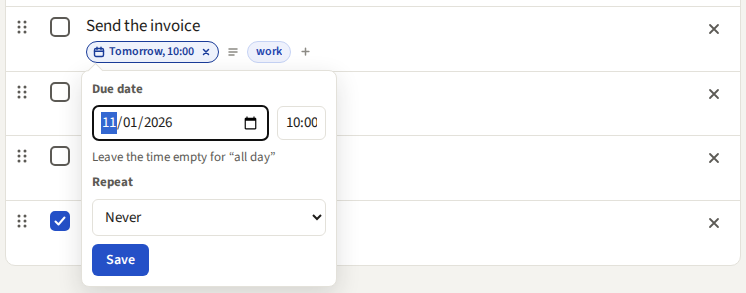
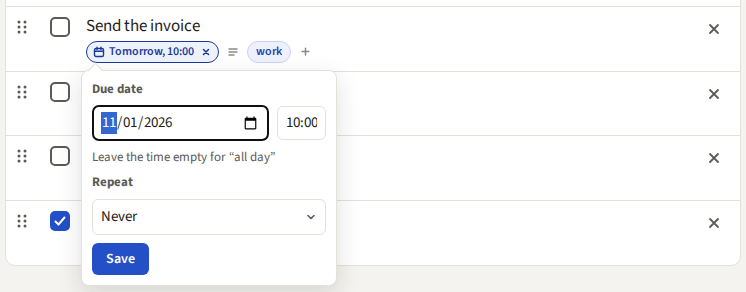
fix: the page draws the Repeat list, so it looks the same in Firefox
The Repeat list of the due date pop-up was a <select>. Firefox draws its
open list with the system look (system font, square corners, system
highlight), and CSS cannot change it. The page now draws the list as the
canvas frame "The Repeat list open": a button with the chosen rule, a
white list with a shadow, and the chosen rule in light blue. The form
still sends due_repeat in a hidden field.

Keys: ↓ ↑ open the list and move, Enter or Space chooses, Esc closes only
the list, Tab or a click outside closes it. The focus ring shows only
when the keys are in use.

diff --git a/internal/web/static/app.js b/internal/web/static/app.js
@@ -808,7 +808,7 @@ document.addEventListener("mousedown", (e) => {
     return;
   }
   if (picker.contains(e.target)) {
-    if (!e.target.closest(isFormPicker() ? "input, select, textarea" : ".picker-search")) {
+    if (!e.target.closest(isFormPicker() ? "input, textarea" : ".picker-search")) {
       e.preventDefault();
     }
   } else if (button === pickerButton) {
@@ -865,7 +865,8 @@ document.addEventListener("keydown", (e) => {
   }
   if (e.key === "Escape") {
     e.preventDefault();
-    closePicker(true);
+    // An open Repeat list closes first; the next Esc closes the pop-up.
+    if (!closeRepeatMenu(true)) closePicker(true);
   } else if (e.key === "Enter" && (e.ctrlKey || e.metaKey) && e.target.matches("textarea") && !e.isComposing) {
     e.preventDefault();
     picker.requestSubmit();
@@ -1855,3 +1856,108 @@ document.addEventListener("htmx:afterRequest", (e) => {
   }
 });
 document.addEventListener("htmx:afterSettle", drawTypedLine);
+
+// 21. The Repeat list of the due date pop-up (canvas page "20 · Repeat",
+// frame "The Repeat list open"). The page draws it, not a <select>: Firefox
+// draws the open list of a <select> with the system look, and CSS cannot
+// change it. A click on the button opens the list; ↑ ↓ Home End move, Enter
+// or Space or a click chooses; Esc, Tab or a click outside closes it. The
+// choice goes into the hidden field due_repeat, which the form sends.
+
+// repeatStep is the line that key moves to, from line at in a list of n
+// lines, or -1 if the key does not move.
+function repeatStep(at, key, n) {
+  switch (key) {
+    case "ArrowDown": return Math.min(at + 1, n - 1);
+    case "ArrowUp": return Math.max(at - 1, 0);
+    case "Home": return 0;
+    case "End": return n - 1;
+  }
+  return -1;
+}
+
+// openRepeatMenu shows the list of the button, with the focus on the chosen
+// line. The focus ring shows only when the keys are in use (byKey).
+function openRepeatMenu(button, byKey) {
+  const menu = button.nextElementSibling;
+  menu.classList.toggle("by-key", byKey);
+  menu.hidden = false;
+  button.setAttribute("aria-expanded", "true");
+  (menu.querySelector('[aria-selected="true"]') || menu.firstElementChild).focus();
+}
+
+// closeRepeatMenu hides the open Repeat list, if there is one, and says if
+// it did. With refocus, the focus goes back to its button.
+function closeRepeatMenu(refocus) {
+  const menu = document.querySelector(".repeat-menu:not([hidden])");
+  if (!menu) {
+    return false;
+  }
+  const button = menu.previousElementSibling;
+  menu.hidden = true;
+  button.setAttribute("aria-expanded", "false");
+  if (refocus) {
+    button.focus();
+  }
+  return true;
+}
+
+// chooseRepeat puts the rule of a line into the form and the button.
+function chooseRepeat(line) {
+  const menu = line.parentElement;
+  menu.querySelectorAll('[role="option"]').forEach((o) => o.setAttribute("aria-selected", String(o === line)));
+  menu.closest("form").elements.due_repeat.value = line.dataset.value;
+  menu.previousElementSibling.querySelector(".due-repeat-text").textContent = line.textContent;
+  closeRepeatMenu(true);
+}
+
+document.addEventListener("click", (e) => {
+  const button = e.target.closest && e.target.closest(".due-repeat");
+  if (button) {
+    if (button.getAttribute("aria-expanded") === "true") closeRepeatMenu(true);
+    else openRepeatMenu(button, e.detail === 0); // detail 0: Enter or Space
+    return;
+  }
+  const line = e.target.closest && e.target.closest('.repeat-menu [role="option"]');
+  if (line) {
+    chooseRepeat(line);
+  }
+});
+
+// A press outside the open list (and its button) closes it.
+document.addEventListener("mousedown", (e) => {
+  if (!e.target.closest || !e.target.closest(".repeat-field")) {
+    closeRepeatMenu(false);
+  }
+});
+
+// The focus that goes out of the list (Tab, a click on a field) closes it.
+document.addEventListener("focusin", (e) => {
+  if (!e.target.closest || !e.target.closest(".repeat-field")) {
+    closeRepeatMenu(false);
+  }
+});
+
+document.addEventListener("keydown", (e) => {
+  const line = e.target.closest && e.target.closest('.repeat-menu [role="option"]');
+  if (!line) {
+    if (e.target.matches && e.target.matches(".due-repeat") && (e.key === "ArrowDown" || e.key === "ArrowUp")) {
+      e.preventDefault();
+      openRepeatMenu(e.target, true);
+    }
+    return;
+  }
+  line.parentElement.classList.add("by-key");
+  const lines = Array.from(line.parentElement.children);
+  const at = repeatStep(lines.indexOf(line), e.key, lines.length);
+  if (at >= 0) {
+    e.preventDefault();
+    lines[at].focus();
+  } else if (e.key === "Enter" || e.key === " ") {
+    e.preventDefault();
+    chooseRepeat(line);
+  } else if (e.key === "Tab") {
+    // From the button, Tab goes on to the next field as usual.
+    closeRepeatMenu(true);
+  }
+});

diff --git a/internal/web/templates/item.html b/internal/web/templates/item.html
@@ -20,6 +20,8 @@
 
 {{define "repeat-icon"}}<svg width="11" height="11" viewBox="0 0 12 12" fill="none" aria-hidden="true"><path d="M10 6a4 4 0 1 1-1.2-2.85" stroke="currentColor" stroke-width="1.5" stroke-linecap="round"/><path d="M9.6 1.2v2.4H7.2" stroke="currentColor" stroke-width="1.5" stroke-linecap="round" stroke-linejoin="round"/></svg>{{end}}
 
+{{define "chevron-icon"}}<svg class="chevron" width="12" height="12" viewBox="0 0 12 12" fill="none" aria-hidden="true"><path d="M3 4.5L6 7.5l3-3" stroke="currentColor" stroke-width="1.6" stroke-linecap="round" stroke-linejoin="round"/></svg>{{end}}
+
 {{define "notes-icon"}}<svg width="12" height="12" viewBox="0 0 12 12" fill="none" aria-hidden="true"><path d="M2 3h8M2 6h8M2 9h5" stroke="currentColor" stroke-width="1.5" stroke-linecap="round"/></svg>{{end}}
 
 {{define "plus-icon-18"}}<svg width="18" height="18" viewBox="0 0 20 20" fill="none" aria-hidden="true"><path d="M10 4v12M4 10h12" stroke="currentColor" stroke-width="1.9" stroke-linecap="round"/></svg>{{end}}
@@ -88,11 +90,15 @@
 <input type="hidden" name="due_tz" value="{{zone}}">
 {{if .Error}}<p class="hint error" id="due-error-{{.Item.ID}}" role="alert">{{.Error}}</p>{{else}}<p class="hint">Leave the time empty for “all day”</p>{{end}}
 {{/* Repeating items (canvas page "20 · Repeat", option R1). */}}
-<label class="due-picker-title" for="due-repeat-{{.Item.ID}}">Repeat</label>
-<select name="due_repeat" id="due-repeat-{{.Item.ID}}" class="due-repeat">
-<option value=""{{if not .Repeat}} selected{{end}}>Never</option>
-{{range repeatRules}}<option value="{{.}}"{{if eq . $.Repeat}} selected{{end}}>{{repeatText .}}</option>
-{{end}}</select>
+{{/* The page draws the list (not a <select>), so that it looks the same in
+     each browser (app.js section 21). */}}
+<label class="due-picker-title" id="due-repeat-title-{{.Item.ID}}" for="due-repeat-{{.Item.ID}}">Repeat</label>
+<input type="hidden" name="due_repeat" value="{{.Repeat}}">
+<span class="repeat-field"><button type="button" id="due-repeat-{{.Item.ID}}" class="due-repeat" aria-haspopup="listbox" aria-expanded="false" aria-controls="due-repeat-menu-{{.Item.ID}}" aria-labelledby="due-repeat-title-{{.Item.ID}} due-repeat-{{.Item.ID}}"><span class="due-repeat-text">{{if .Repeat}}{{repeatText .Repeat}}{{else}}Never{{end}}</span>{{template "chevron-icon"}}</button>
+<ul class="repeat-menu" id="due-repeat-menu-{{.Item.ID}}" role="listbox" aria-labelledby="due-repeat-title-{{.Item.ID}}" hidden>
+<li role="option" data-value="" aria-selected="{{if .Repeat}}false{{else}}true{{end}}" tabindex="-1">Never</li>
+{{range repeatRules}}<li role="option" data-value="{{.}}" aria-selected="{{if eq . $.Repeat}}true{{else}}false{{end}}" tabindex="-1">{{repeatText .}}</li>
+{{end}}</ul></span>
 <div class="due-actions"><button type="submit" class="due-save">Save</button></div>
 </form>{{end}}
 

diff --git a/internal/web/static/app.css b/internal/web/static/app.css
@@ -769,10 +769,29 @@ body.searching #items :is(.grip, .grip-space) { visibility: hidden; }
 
 /* Repeating items (canvas page "20 · Repeat", option R1): the Repeat list
    of the due date pop-up, the ↻ on the date chip, and the line after a check. */
+/* The page draws the Repeat list (app.js section 21), as the canvas frame
+   "The Repeat list open": a white list with a shadow under the button. */
+.repeat-field { position: relative; display: block; }
 .due-repeat {
+  box-sizing: border-box; display: flex; align-items: center; justify-content: space-between; gap: 8px;
+  width: 100%; min-height: 36px; text-align: left; cursor: pointer;
   font: inherit; font-size: 15px; color: var(--ink);
   padding: 6px 8px; border: 1px solid var(--line); border-radius: 6px; background: var(--card);
 }
+.due-repeat .chevron { flex: none; color: var(--muted); }
+.due-repeat[aria-expanded="true"] .chevron { transform: rotate(180deg); }
+.due-repeat:focus-visible { outline: 2px solid var(--accent); outline-offset: -1px; border-color: var(--accent); }
+.repeat-menu {
+  position: absolute; z-index: 1; top: calc(100% + 4px); left: 0; right: 0;
+  margin: 0; padding: 4px 0; list-style: none; font-size: 14px;
+  background: var(--card); border: 1px solid var(--line); border-radius: 6px;
+  box-shadow: 0 4px 12px rgba(31, 30, 27, 0.12);
+}
+.repeat-menu[hidden] { display: none; }
+.repeat-menu [role="option"] { padding: 5px 10px; cursor: pointer; }
+.repeat-menu [role="option"]:hover, .repeat-menu [role="option"]:focus { background: var(--ground); outline: none; }
+.repeat-menu [role="option"][aria-selected="true"] { background: #EEF2FC; color: #1A3C99; font-weight: 600; }
+.repeat-menu.by-key [role="option"]:focus { box-shadow: inset 0 0 0 2px var(--accent); }
 .repeat-icon { display: inline-flex; margin-left: 3px; }
 .repeat-msg {
   display: flex; align-items: center; gap: 10px; margin-top: 4px; font-size: 13px; color: var(--muted);
@@ -782,5 +801,7 @@ body.searching #items :is(.grip, .grip-space) { visibility: hidden; }
 .repeat-msg .undo-btn { font-size: 13px; min-height: 28px; padding: 0 10px; }
 @media (hover: none) {
   .due-repeat { font-size: 16px; min-height: 44px; }
+  .repeat-menu { font-size: 16px; }
+  .repeat-menu [role="option"] { display: flex; align-items: center; min-height: 44px; box-sizing: border-box; }
   .repeat-msg .undo-btn { min-height: 40px; font-size: 14px; }
 }

diff --git a/internal/web/repeat_test.go b/internal/web/repeat_test.go
@@ -5,6 +5,9 @@ import (
 	"encoding/json"
 	"net/http"
 	"net/url"
+	"os"
+	"os/exec"
+	"path/filepath"
 	"strings"
 	"testing"
 	"time"
@@ -35,14 +38,58 @@ func TestDuePickerHasRepeat(t *testing.T) {
 	if it.ID != 1 {
 		t.Fatalf("id = %d, want 1", it.ID)
 	}
-	assertContains(t, body, `<select name="due_repeat" id="due-repeat-1" class="due-repeat">`,
-		`<option value="">Never</option>`, `<option value="day">Every day</option>`,
-		`<option value="week" selected>Every week</option>`, `<option value="month">Every month</option>`,
-		`<option value="year">Every year</option>`, `<label class="due-picker-title" for="due-repeat-1">Repeat</label>`)
-	// A press on the list must go through, or the list does not open
-	// (app.js, the mousedown handler of the pop-ups).
-	js := do(t, env.H, "GET", "/static/app.js", nil, anon).Body.String()
-	assertContains(t, js, `e.target.closest(isFormPicker() ? "input, select, textarea" : ".picker-search")`)
+	// The page draws the list itself, so it looks the same in each browser
+	// (a <select> opens a list that the browser and the system draw).
+	assertContains(t, body,
+		`<label class="due-picker-title" id="due-repeat-title-1" for="due-repeat-1">Repeat</label>`,
+		`<input type="hidden" name="due_repeat" value="week">`,
+		`<span class="repeat-field"><button type="button" id="due-repeat-1" class="due-repeat" aria-haspopup="listbox" aria-expanded="false" aria-controls="due-repeat-menu-1" aria-labelledby="due-repeat-title-1 due-repeat-1"><span class="due-repeat-text">Every week</span>`,
+		`<ul class="repeat-menu" id="due-repeat-menu-1" role="listbox" aria-labelledby="due-repeat-title-1" hidden>`,
+		`<li role="option" data-value="" aria-selected="false" tabindex="-1">Never</li>`,
+		`<li role="option" data-value="day" aria-selected="false" tabindex="-1">Every day</li>`,
+		`<li role="option" data-value="week" aria-selected="true" tabindex="-1">Every week</li>`,
+		`<li role="option" data-value="month" aria-selected="false" tabindex="-1">Every month</li>`,
+		`<li role="option" data-value="year" aria-selected="false" tabindex="-1">Every year</li>`)
+	assertNotContains(t, body, "<select", "<option")
+	// Without a rule, "Never" is chosen.
+	mustAdd(t, env.Svc, "Pay the rent")
+	body = do(t, env.H, "GET", "/items/2/due", nil, warsawHTMX()).Body.String()
+	assertContains(t, body, `<input type="hidden" name="due_repeat" value="">`, `<span class="due-repeat-text">Never</span>`,
+		`<li role="option" data-value="" aria-selected="true" tabindex="-1">Never</li>`)
+}
+
+// repeatHarness runs repeatStep of app.js: the line that a key in the Repeat
+// list moves to, from line at in a list of n lines.
+const repeatHarness = `
+const src = require("fs").readFileSync(process.argv[2], "utf8");
+const document = {
+  addEventListener() {}, getElementById: () => null, querySelector: () => null, querySelectorAll: () => [],
+  activeElement: null, body: { classList: { contains: () => false } },
+};
+const fns = new Function("document", "window", "navigator", "fetch", "setInterval", "setTimeout", "clearTimeout", "htmx",
+  src + "\nreturn { repeatStep };")(document, {}, {}, () => new Promise(() => {}), () => 0, () => 0, () => {}, {});
+for (const [at, key] of [[2, "ArrowDown"], [4, "ArrowDown"], [2, "ArrowUp"], [0, "ArrowUp"], [2, "Home"], [2, "End"], [2, "a"]]) {
+  console.log(at + " " + key + " " + fns.repeatStep(at, key, 5));
+}
+`
+
+func TestRepeatListKeys(t *testing.T) {
+	node, err := exec.LookPath("node")
+	if err != nil {
+		t.Skip("node is not installed")
+	}
+	harness := filepath.Join(t.TempDir(), "harness.js")
+	if err := os.WriteFile(harness, []byte(repeatHarness), 0o600); err != nil {
+		t.Fatal(err)
+	}
+	out, err := exec.Command(node, harness, "static/app.js").CombinedOutput()
+	if err != nil {
+		t.Fatalf("node: %v\n%s", err, out)
+	}
+	want := "2 ArrowDown 3\n4 ArrowDown 4\n2 ArrowUp 1\n0 ArrowUp 0\n2 Home 0\n2 End 4\n2 a -1"
+	if got := strings.TrimSpace(string(out)); got != want {
+		t.Fatalf("got:\n%s\nwant:\n%s", got, want)
+	}
 }
 
 // Saving the pop-up with a rule makes the item repeat; the date chip shows ↻.
@@ -66,7 +113,8 @@ func TestSetDueWithRepeat(t *testing.T) {
 	if rec.Code != http.StatusUnprocessableEntity {
 		t.Fatalf("no date: %d, want 422", rec.Code)
 	}
-	assertContains(t, rec.Body.String(), "A repeating item needs a due date.", `<option value="week" selected>`)
+	assertContains(t, rec.Body.String(), "A repeating item needs a due date.", `<input type="hidden" name="due_repeat" value="week">`,
+		`<li role="option" data-value="week" aria-selected="true" tabindex="-1">Every week</li>`)
 
 	// The × of the date chip removes the date and the repeat.
 	rec = do(t, env.H, "PUT", "/items/1/due", nil, warsawHTMX())

diff --git a/internal/web/due_popup_test.go b/internal/web/due_popup_test.go
@@ -74,7 +74,8 @@ func TestDuePopupBadValue(t *testing.T) {
 		`name="due_date" value="" aria-label="Due date" aria-invalid="true" aria-describedby="due-error-1"`,
 		`name="due_time" value="10:00"`,
 		`<p class="hint error" id="due-error-1" role="alert">Pick a day for the due date.</p>`)
-	assertNotContains(t, body, "<li")
+	// The answer is the pop-up, not the row (the Repeat list has <li> lines).
+	assertNotContains(t, body, `<li id="item-`)
 	if got, _ := svc.Get(context.Background(), 1, 1); got.DueAt == nil {
 		t.Fatal("the due date was removed after a bad value")
 	}
@@ -177,7 +178,7 @@ func TestAppJSOpensTheDuePopup(t *testing.T) {
 func TestAppJSDuePopupButtonsKeepFocus(t *testing.T) {
 	h, _ := newTestApp(t)
 	js := do(t, h, "GET", "/static/app.js", nil, nil).Body.String()
-	assertContains(t, js, `e.target.closest(isFormPicker() ? "input, select, textarea" : ".picker-search")`)
+	assertContains(t, js, `e.target.closest(isFormPicker() ? "input, textarea" : ".picker-search")`)
 	assertNotContains(t, js, `isDuePicker() ? "input, button"`)
 }
 

diff --git a/docs/user-guide.md b/docs/user-guide.md
@@ -430,6 +430,9 @@ web, so a change on the phone shows in the browser and the other way round.
 | List, after the notes are removed | Ctrl+Z | Brings the notes back (while **Undo** shows) |
 | Due date pop-up | Enter | Saves the date |
 | Due date pop-up | Esc | Closes the pop-up |
+| Repeat list of the due date pop-up | ↓ or ↑ | Opens the list, then moves between the rules |
+| Repeat list of the due date pop-up | Enter or Space | Chooses the rule |
+| Repeat list of the due date pop-up | Esc | Closes the list; the pop-up stays open |
 | Notes pop-up, field | Enter | Makes a new line |
 | Notes pop-up, field | Ctrl+Enter (⌘+Enter on a Mac) | Saves the notes |
 | Notes pop-up | Esc | Closes the pop-up without saving |
